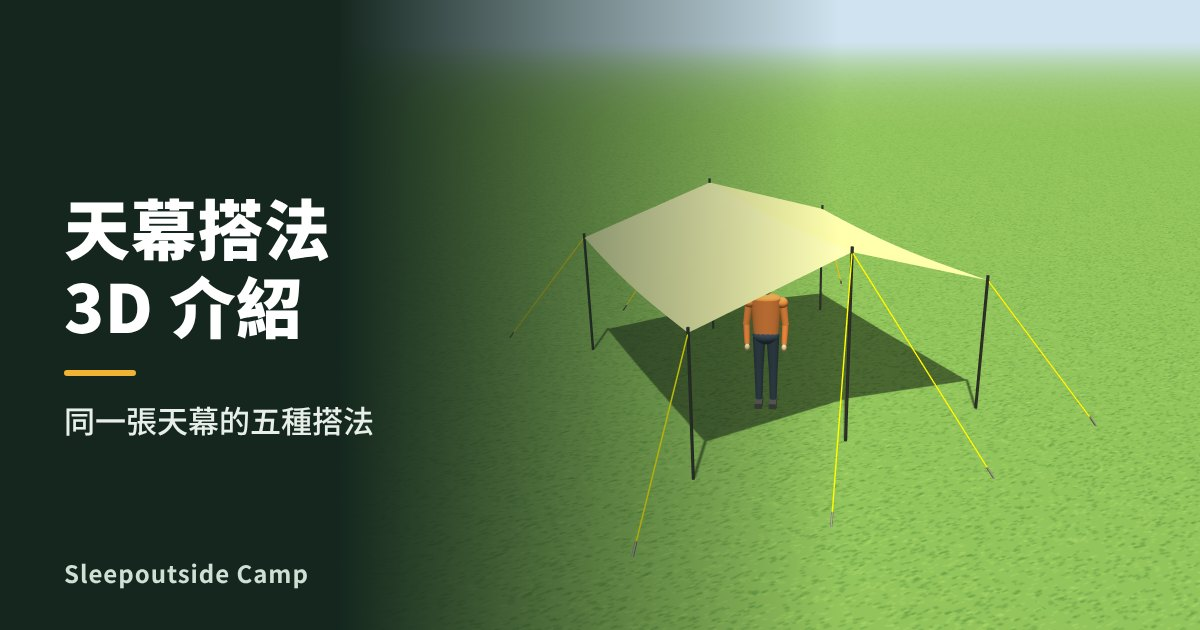
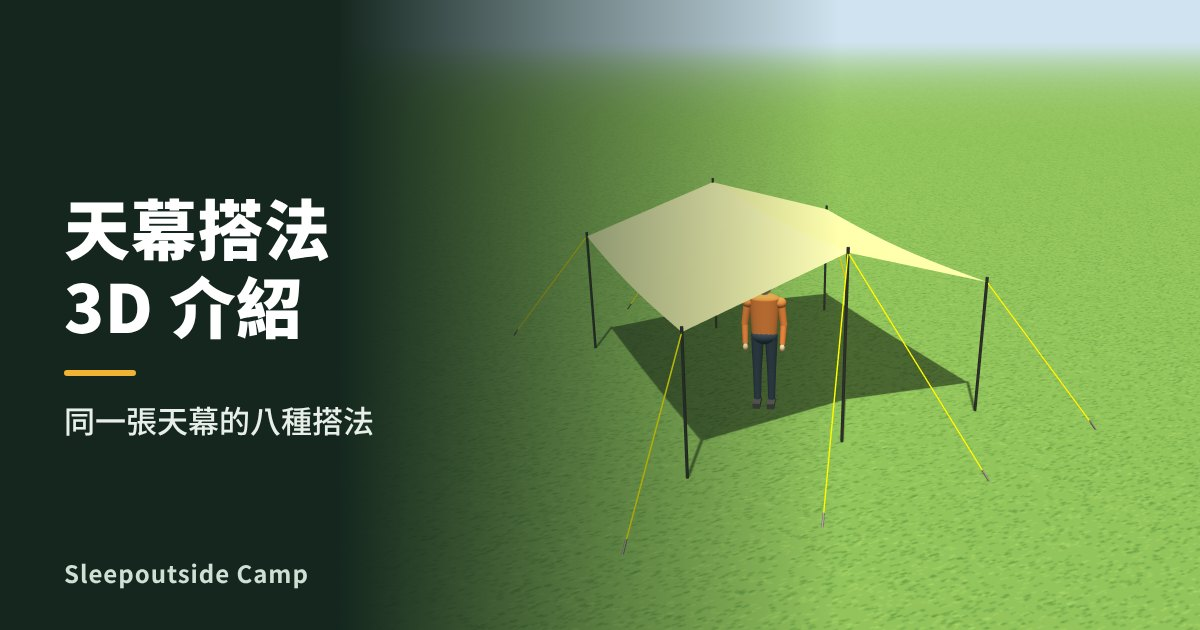
Tarp pitches: add rain drainage, car-side and butterfly tarp
Claude-Session: https://claude.ai/code/session_014sz8NWJGfTpPNJeVKTkoDY

diff --git a/tarps.html b/tarps.html
@@ -4,19 +4,19 @@
 <meta charset="utf-8">
 <meta name="viewport" content="width=device-width, initial-scale=1">
 <meta name="author" content="Sleepoutside Camp">
-<meta name="description" content="同一張方形天幕，換個搭法就是不同的遮蔽。標準屋脊、一側落地、單斜面、全落地 A 字、菱形，用 3D 看差別。">
+<meta name="description" content="同一張方形天幕，換個搭法就是不同的遮蔽。標準屋脊、一側落地、單斜面、全落地 A 字、菱形、雨天排水、車邊搭，再加蝶形天幕對照，用 3D 看差別。">
 <link rel="canonical" href="https://sleepoutside.github.io/tent-planner/tarps.html">
 <meta property="og:type" content="website">
 <meta property="og:site_name" content="Sleepoutside Camp">
 <meta property="og:locale" content="zh_TW">
-<meta property="og:title" content="天幕搭法 3D 介紹｜同一張天幕的五種搭法">
-<meta property="og:description" content="同一張方形天幕，換個搭法就是不同的遮蔽。標準屋脊、一側落地、單斜面、全落地 A 字、菱形，用 3D 看差別。">
+<meta property="og:title" content="天幕搭法 3D 介紹｜八種搭法比較">
+<meta property="og:description" content="同一張方形天幕，換個搭法就是不同的遮蔽。標準屋脊、一側落地、單斜面、全落地 A 字、菱形、雨天排水、車邊搭，再加蝶形天幕對照，用 3D 看差別。">
 <meta property="og:url" content="https://sleepoutside.github.io/tent-planner/tarps.html">
 <meta property="og:image" content="https://sleepoutside.github.io/tent-planner/og-tarps.jpg">
 <meta property="og:image:width" content="1200">
 <meta property="og:image:height" content="630">
 <meta name="twitter:card" content="summary_large_image">
-<title>天幕搭法 3D 介紹｜同一張天幕的五種搭法</title>
+<title>天幕搭法 3D 介紹｜八種搭法比較</title>
 <style>
   :root{--paper:#f4f0e6;--panel:#fbf9f3;--ink:#22302a;--muted:#66736b;--line:#d9d3c3;--accent:#2f6b4f;--accent-soft:#e2eee6;--warn:#b8472a;--warn-soft:#f8e4dc;color-scheme:light}
   *{box-sizing:border-box}
@@ -75,7 +75,7 @@
 <body>
 <header>
   <h1>天幕搭法 3D 介紹</h1>
-  <p>同一張 4 × 4 公尺的方形天幕，換個搭法就是不同的遮蔽。拖曳畫面可以轉著看。</p>
+  <p>同一張 4 × 4 公尺的方形天幕，換個搭法就是不同的遮蔽；最後附上蝶形天幕作對照。拖曳畫面可以轉著看。</p>
   <nav class="navcards" aria-label="其他頁面"><a href="index.html">搭設模擬<small>放不放得下</small></a><a href="types.html">帳型介紹<small>3D 與優缺點</small></a><a href="fire.html">焚火安全<small>距離與風向</small></a><a href="sleep.html">帳內睡鋪<small>睡得下幾人</small></a></nav>
 </header>
 <main>
@@ -157,7 +157,31 @@ var PITCHES=[
   need:['營柱 1 支','營繩 4 條','營釘 5 支'],r:[2,2,2,1,5],
   pros:['只要一支營柱，一個人幾分鐘就能搭好','裝備最少，適合輕裝或單人','造型俐落，拍照好看'],
   cons:['真正能遮到的面積很小，只夠一兩個人','越往後越矮，後半段只能放東西','兩側敞開，下雨時能躲的範圍有限'],
-  fit:'單人或兩人、短暫休息遮陽，或裝備想帶到最少的時候。',tip:'把低的那個角朝向風吹來的方向，風會順著布面滑過去。'}
+  fit:'單人或兩人、短暫休息遮陽，或裝備想帶到最少的時候。',tip:'把低的那個角朝向風吹來的方向，風會順著布面滑過去。'},
+ {id:'rain',name:'雨天排水',lead:'標準屋脊的變化：把一個角壓低，讓雨水集中從那裡流走。',
+  net:[[[-2,1.7,-1.91],[-2,2.3,0],[-2,1.7,1.91]],[[2,1.7,-1.91],[2,2.3,0],[2,.7,1.25]]],
+  poles:[[-2,0,2.3],[2,0,2.3],[-2,-1.91,1.7],[-2,1.91,1.7],[2,-1.91,1.7]],
+  ropes:[[-2,2.3,0,-3.4,-1],[-2,2.3,0,-3.4,1],[2,2.3,0,3.4,-1],[2,2.3,0,3.4,1],[-2,1.7,-1.91,-3,-2.9],[-2,1.7,1.91,-3,2.9],[2,1.7,-1.91,3,-2.9],[2,.7,1.25,2.6,1.9]],pegs:[],person:[-.6,.2],
+  need:['營柱 5 支','營繩 8 條','營釘 8 支'],r:[4,4,1,1,3],
+  pros:['雨水有固定的出口，不會在布面上積成水袋','從標準屋脊改過來只要動一個角，下雨前臨時調整也來得及','其他三個角維持高度，底下還是好活動'],
+  cons:['壓低的那個角下方不能站人，也不要放怕濕的東西','水會集中流到同一處，地面容易泥濘','四面一樣沒有遮擋，擋不了斜雨'],
+  fit:'已經搭好標準屋脊、看天氣快要下雨的時候。',tip:'壓低的角選在地勢低、遠離帳篷門口和走道的那一側；下面放個水桶還能接水。'},
+ {id:'car',name:'車邊搭',lead:'一邊固定在車頂，另一邊用兩支營柱撐開，車子就是一面牆。',
+  net:[[[-2,1.88,-2],[-2,1.76,2]],[[2,1.88,-2],[2,1.76,2]]],car:[0,-2.98],
+  poles:[[-2,2,1.76],[2,2,1.76]],
+  ropes:[[-2,1.76,2,-3.1,2.4],[-2,1.76,2,-2.4,3.1],[2,1.76,2,3.1,2.4],[2,1.76,2,2.4,3.1]],pegs:[],person:[.7,-.6],
+  need:['營柱 2 支','營繩 4 條','營釘 4 支'],r:[4,3,3,3,4],
+  pros:['只要兩支營柱，車子幫你擋掉一整面的風','拿東西不用淋雨，後車廂或側門一開就是倉庫','佔地小，適合車宿或只有停車格大小的營位'],
+  cons:['車子不能動，臨時要開車就得先拆','固定在車上的那一邊要用吸盤、車頂架綁帶或專用配件，要另外準備','車身會被布面和雨水摩擦，固定點要墊好避免刮傷','外側要比車頂低一點，雨水才不會流回車上'],
+  fit:'車宿、車邊帳，或營位小到放不下六支營柱的時候。',tip:'車門開關的範圍先確認，別讓營柱或營繩擋住；引擎不要怠速，排氣會積在天幕下。'},
+ {id:'hexa',name:'蝶形天幕（對照）',lead:'另一種天幕：六角形的布，兩支主柱撐起兩個尖端，四個角用營繩往下拉。',
+  net:[[[-2.2,2.4,0],[-2.2,2.4,0],[-2.2,2.4,0]],[[-.97,1.1,-1.72],[-.97,2.25,0],[-.97,1.1,1.72]],[[.97,1.1,-1.72],[.97,2.25,0],[.97,1.1,1.72]],[[2.2,2.4,0],[2.2,2.4,0],[2.2,2.4,0]]],
+  poles:[[-2.2,0,2.4],[2.2,0,2.4]],
+  ropes:[[-2.2,2.4,0,-3.6,-.9],[-2.2,2.4,0,-3.6,.9],[2.2,2.4,0,3.6,-.9],[2.2,2.4,0,3.6,.9],[-.97,1.1,-1.72,-1.5,-2.75],[-.97,1.1,1.72,-1.5,2.75],[.97,1.1,-1.72,1.5,-2.75],[.97,1.1,1.72,1.5,2.75]],pegs:[],person:[.2,.3],
+  need:['營柱 2 支','營繩 8 條','營釘 8 支'],r:[3,3,3,2,4],
+  pros:['只要兩支營柱，收納比方形天幕小','曲線邊緣把布面繃緊，不容易積水','兩側自然下垂，比標準屋脊多擋一點斜雨和風'],
+  cons:['同樣大小的布，能站著活動的範圍比方形小','搭法變化少，基本上就是這個樣子','營繩往外拉得遠，實際佔地比布面大很多'],
+  fit:'想要好搭、好收、好看，人數不多的時候。',tip:'把其中一支主柱換短或把一側的兩個角拉低，就能擋住那個方向的風和西曬。'}
 ];
 /* ---------- builders shared with the simulator (copied from index.html by tools/build.py) ---------- */
 function rnd(seed){var s=seed;return function(){s=(s*9301+49297)%233280;return s/233280}}
@@ -452,6 +476,69 @@ function buildPerson(){
   }
   personG.scale.setScalar(S.ph/170);
 }
+function car(type){
+  var c=CARS[type]||CARS.suv,g=new THREE.Group(),i;
+  var body=std(c.col,{roughness:.28,metalness:.45}),glass=std(0x141d23,{roughness:.1,metalness:.6}),dark=std(0x202325,{roughness:.75}),tyre=std(0x161616),alloy=std(0xc9cdd0,{metalness:.8,roughness:.3});
+  var hl=c.len/2,w=c.w,r=c.wr,ra=r+.06,xf=hl-c.fo,xr=-hl+c.ro,by=.22,cc=Math.sqrt(ra*ra-(r-by)*(r-by)),a0=Math.asin((by-r)/ra);
+  function ext(shape,depth,bt,bs,mat,z){
+    var geo=new THREE.ExtrudeGeometry(shape,{depth:depth,bevelEnabled:bt>0,bevelThickness:bt,bevelSize:bs,bevelSegments:3,curveSegments:16,steps:1});
+    geo.translate(0,0,-depth/2); var m=new THREE.Mesh(geo,mat); m.position.z=z||0; m.castShadow=true; g.add(m); return m;
+  }
+  function bx(sx,sy,sz,m,x,y,z){ var o=new THREE.Mesh(new THREE.BoxGeometry(sx,sy,sz),m); o.position.set(x,y,z); g.add(o); return o; }
+  function smooth(pts,n){ return new THREE.SplineCurve(pts.map(function(p){return new THREE.Vector2(p[0],p[1])})).getPoints(n).map(function(v){return [v.x,v.y]}); }
+  function poly(pts){ var s=new THREE.Shape(); s.moveTo(pts[0][0],pts[0][1]); for(var k=1;k<pts.length;k++) s.lineTo(pts[k][0],pts[k][1]); s.closePath(); return s; }
+  /* lower body: smooth shoulder line, wheel arches */
+  var top=smooth(c.top,48),s=new THREE.Shape(); s.moveTo(-hl+.12,by); s.lineTo(xr-cc,by); s.absarc(xr,r,ra,Math.PI-a0,a0,true); s.lineTo(xf-cc,by); s.absarc(xf,r,ra,Math.PI-a0,a0,true); s.lineTo(hl-.12,by);
+  for(i=top.length-1;i>=0;i--) s.lineTo(top[i][0],top[i][1]); s.closePath();
+  ext(s,w-.12,.06,.03,body);
+  /* glasshouse with a curved roofline */
+  var cab=smooth(c.cab,36),n=cab.length,gw=w-.3,cx=0,cy=0,roofY=0,baseY=c.cab[0][1];
+  cab.forEach(function(p){ cx+=p[0]/n; cy+=p[1]/n; roofY=Math.max(roofY,p[1]); });
+  ext(poly(cab),gw,.03,.012,glass);
+  var rf=cab.filter(function(p){ return p[1]>=roofY-.16; }),rp=rf.map(function(p){return [p[0],p[1]+.02]}).concat(rf.slice().reverse().map(function(p){return [p[0],p[1]-.05]}));
+  ext(poly(rp),w-.24,.03,.015,c.darkRoof?glass:body);
+  var fy=c.top[c.top.length-2][1]-.07,ry=c.top[2][1]-.14,led=std(0xffffff,{emissive:0xdfe8ff,emissiveIntensity:.9}),red=std(0xd0241c,{emissive:0x8a100c,emissiveIntensity:.8});
+  [1,-1].forEach(function(sg){
+    c.pil.forEach(function(px){ bx(.09,roofY-.07-baseY,.05,body,px,(roofY-.07+baseY)/2,sg*(gw/2+.035)); });
+    bx(.1,.09,.2,body,c.cab[c.cab.length-1][0]-.18,baseY+.1,sg*(w/2+.06));
+    if(c.rails) g.add(limb(P(rf[0][0]+.2,roofY+.07,sg*(w/2-.3)),P(rf[rf.length-1][0]-.2,roofY+.07,sg*(w/2-.3)),.016,.016,dark,6));
+    bx(.05,.045,.5,led,hl+.01,fy,sg*(w/2-.36)); bx(.05,.1,.26,glass,hl+.008,fy-.09,sg*(w/2-.3));
+    bx(.05,.06,.34,red,-hl-.01,ry,sg*(w/2-.24));
+    [xf,xr].forEach(function(wx){
+      var z=sg*(w/2-.11),t=new THREE.Mesh(new THREE.CylinderGeometry(r,r,.23,24),tyre); t.rotation.x=Math.PI/2; t.position.set(wx,r,z); t.castShadow=true; g.add(t);
+      var well=new THREE.Mesh(new THREE.CylinderGeometry(r*.74,r*.74,.235,20),dark); well.rotation.x=Math.PI/2; well.position.copy(t.position); g.add(well);
+      for(var k=0;k<5;k++){ var a=k/5*Math.PI*2,sp=bx(r*.66,.06,.02,alloy,wx+Math.cos(a)*r*.36,r+Math.sin(a)*r*.36,z+sg*.115); sp.rotation.z=a; }
+      var hub=new THREE.Mesh(new THREE.CylinderGeometry(r*.17,r*.17,.26,12),alloy); hub.rotation.x=Math.PI/2; hub.position.copy(t.position); g.add(hub);
+      var rim=new THREE.Mesh(new THREE.TorusGeometry(r*.72,.018,6,24),alloy); rim.position.set(wx,r,z+sg*.115); g.add(rim);
+    });
+  });
+  [xf,xr].forEach(function(wx){
+    bx(ra*2,ra*1.1,w-.52,dark,wx,r+ra*.4,0);
+    if(c.clad){ var cs=new THREE.Shape(); cs.absarc(wx,r,ra+.07,a0,Math.PI-a0,false); cs.absarc(wx,r,ra,Math.PI-a0,a0,true); cs.closePath(); ext(cs,w+.02,0,0,dark); }
+  });
+  if(c.clad) bx(xf-xr-ra*2,.12,w+.02,dark,(xf+xr)/2,by+.06,0);
+  bx(.14,.2,w-.16,dark,hl-.03,.36,0); bx(.14,.2,w-.16,dark,-hl+.03,.36,0);
+  bx(.04,.04,w*.8,red,-hl-.012,ry,0);
+  bx(.03,.11,.42,std(0xf4f4f0),hl+.05,.4,0); bx(.03,.11,.42,std(0xf4f4f0),-hl-.05,.4,0);
+  return g;
+}
+var CARS={
+  hatch:{name:'小型車',len:4.0,w:1.74,wr:.32,fo:.8,ro:.72,col:0x3f7f8c,
+    top:[[-2.0,.48],[-1.99,.8],[-1.9,.98],[-1.0,1.0],[.7,.97],[1.45,.9],[1.9,.76],[2.0,.5]],
+    cab:[[-1.9,.98],[-1.72,1.3],[-1.2,1.47],[-.3,1.52],[.3,1.42],[.95,.97]],pil:[-.55]},
+  sedan:{name:'轎車',len:4.7,w:1.84,wr:.34,fo:.92,ro:.95,col:0x5b6168,
+    top:[[-2.35,.5],[-2.34,.82],[-2.2,.98],[-1.2,1.0],[.9,.96],[1.7,.88],[2.25,.74],[2.35,.5]],
+    cab:[[-2.0,.99],[-1.3,1.3],[-.6,1.42],[.1,1.44],[.55,1.33],[1.2,.96]],pil:[-.2]},
+  suv:{name:'休旅車',len:4.6,w:1.87,wr:.38,fo:.9,ro:.88,col:0xeceeed,rails:true,clad:true,darkRoof:true,
+    top:[[-2.3,.55],[-2.29,.95],[-2.18,1.12],[-1.0,1.14],[.85,1.1],[1.6,1.04],[2.2,.9],[2.3,.58]],
+    cab:[[-2.18,1.12],[-1.95,1.48],[-1.3,1.66],[-.2,1.7],[.35,1.6],[1.05,1.1]],pil:[-.3,-1.35]},
+  van:{name:'MPV',len:4.8,w:1.88,wr:.35,fo:.85,ro:.9,col:0xcfd3d6,
+    top:[[-2.4,.55],[-2.39,1.0],[-2.3,1.15],[-1.0,1.16],[1.45,1.1],[2.0,.98],[2.34,.8],[2.4,.55]],
+    cab:[[-2.32,1.15],[-2.25,1.62],[-1.6,1.78],[.3,1.8],[1.0,1.6],[1.7,1.1]],pil:[.7,-.5,-1.5]},
+  pickup:{name:'皮卡',len:5.3,w:1.9,wr:.4,fo:.95,ro:1.15,col:0x3f4d44,clad:true,
+    top:[[-2.65,.62],[-2.64,1.05],[-2.58,1.2],[-.7,1.2],[1.0,1.18],[1.9,1.14],[2.55,1.02],[2.65,.62]],
+    cab:[[-.72,1.18],[-.62,1.62],[-.2,1.8],[.45,1.8],[.85,1.66],[1.35,1.16]],pil:[.15]}
+};
 
 var canvas=$('c'),renderer;
 try{ renderer=new THREE.WebGLRenderer({canvas:canvas,antialias:true}); }
@@ -476,9 +563,9 @@ function clearG(g){ while(g.children.length){ var o=g.children[0]; g.remove(o); 
 function V(a){ return P(a[0],a[1],a[2]); }
 function buildPitch(t){
   clearG(tarpG);
-  var rows=t.net.map(function(r){ return r.map(V); }),n=rows[0].length-1;
+  var rows=t.net.map(function(r){ return r.map(V); }),n=rows[0].length-1,nr=rows.length-1;
   function along(r,v){ var f=Math.min(n-1e-6,v*n),i=Math.floor(f); return r[i].clone().lerp(r[i+1],f-i); }
-  var cloth=gridMesh(function(u,v){ var p=along(rows[0],v).lerp(along(rows[1],v),u); p.y-=.07*Math.sin(Math.PI*u)*Math.min(1,p.y/.6); p.y=Math.max(.012,p.y); return p; },20,n*12,
+  var cloth=gridMesh(function(u,v){ var fu=Math.min(nr-1e-6,u*nr),iu=Math.floor(fu),p=along(rows[iu],v).lerp(along(rows[iu+1],v),fu-iu); p.y-=.07*Math.sin(Math.PI*u)*Math.min(1,p.y/.6); p.y=Math.max(.012,p.y); return p; },nr*18,n*12,
     new THREE.MeshStandardMaterial({color:0xd9b77c,roughness:.9,side:THREE.DoubleSide}));
   cloth.castShadow=true; cloth.receiveShadow=true; tarpG.add(cloth);
   var pm=std(0x50544f,{metalness:.5,roughness:.45}),rm=new THREE.MeshStandardMaterial({color:0xffb300,emissive:0x7a5200,roughness:.6}),gm=std(0xd8d8d2,{metalness:.6,roughness:.4});
@@ -486,6 +573,7 @@ function buildPitch(t){
   function peg(x,z,dir){ tarpG.add(limb(P(x,.11,z).addScaledVector(dir,-.06),P(x,-.02,z).addScaledVector(dir,.04),.012,.012,gm,6)); }
   t.ropes.forEach(function(r){ var a=P(r[0],r[1],r[2]),b=P(r[3],.03,r[4]); tarpG.add(limb(a,b,.008,.008,rm,6)); peg(r[3],r[4],b.clone().sub(a).setY(0).normalize()); });
   t.pegs.forEach(function(p){ peg(p[0],p[1],P(p[0],0,p[1]).normalize()); });
+  if(t.car){ var c=car('suv'); c.position.set(t.car[0],0,t.car[1]); tarpG.add(c); }
   buildPerson(); personG.position.set(t.person[0],0,t.person[1]); personG.rotation.y=Math.atan2(-t.person[0],-t.person[1])+Math.PI;
 }
 var cur=null;

diff --git a/tools/tpl/tarps.html b/tools/tpl/tarps.html
@@ -4,19 +4,19 @@
 <meta charset="utf-8">
 <meta name="viewport" content="width=device-width, initial-scale=1">
 <meta name="author" content="Sleepoutside Camp">
-<meta name="description" content="同一張方形天幕，換個搭法就是不同的遮蔽。標準屋脊、一側落地、單斜面、全落地 A 字、菱形，用 3D 看差別。">
+<meta name="description" content="同一張方形天幕，換個搭法就是不同的遮蔽。標準屋脊、一側落地、單斜面、全落地 A 字、菱形、雨天排水、車邊搭，再加蝶形天幕對照，用 3D 看差別。">
 <link rel="canonical" href="https://sleepoutside.github.io/tent-planner/tarps.html">
 <meta property="og:type" content="website">
 <meta property="og:site_name" content="Sleepoutside Camp">
 <meta property="og:locale" content="zh_TW">
-<meta property="og:title" content="天幕搭法 3D 介紹｜同一張天幕的五種搭法">
-<meta property="og:description" content="同一張方形天幕，換個搭法就是不同的遮蔽。標準屋脊、一側落地、單斜面、全落地 A 字、菱形，用 3D 看差別。">
+<meta property="og:title" content="天幕搭法 3D 介紹｜八種搭法比較">
+<meta property="og:description" content="同一張方形天幕，換個搭法就是不同的遮蔽。標準屋脊、一側落地、單斜面、全落地 A 字、菱形、雨天排水、車邊搭，再加蝶形天幕對照，用 3D 看差別。">
 <meta property="og:url" content="https://sleepoutside.github.io/tent-planner/tarps.html">
 <meta property="og:image" content="https://sleepoutside.github.io/tent-planner/og-tarps.jpg">
 <meta property="og:image:width" content="1200">
 <meta property="og:image:height" content="630">
 <meta name="twitter:card" content="summary_large_image">
-<title>天幕搭法 3D 介紹｜同一張天幕的五種搭法</title>
+<title>天幕搭法 3D 介紹｜八種搭法比較</title>
 <style>
   :root{--paper:#f4f0e6;--panel:#fbf9f3;--ink:#22302a;--muted:#66736b;--line:#d9d3c3;--accent:#2f6b4f;--accent-soft:#e2eee6;--warn:#b8472a;--warn-soft:#f8e4dc;color-scheme:light}
   *{box-sizing:border-box}
@@ -70,7 +70,7 @@
 <body>
 <header>
   <h1>天幕搭法 3D 介紹</h1>
-  <p>同一張 4 × 4 公尺的方形天幕，換個搭法就是不同的遮蔽。拖曳畫面可以轉著看。</p>
+  <p>同一張 4 × 4 公尺的方形天幕，換個搭法就是不同的遮蔽；最後附上蝶形天幕作對照。拖曳畫面可以轉著看。</p>
   /*NAV*/
 </header>
 <main>
@@ -152,7 +152,31 @@ var PITCHES=[
   need:['營柱 1 支','營繩 4 條','營釘 5 支'],r:[2,2,2,1,5],
   pros:['只要一支營柱，一個人幾分鐘就能搭好','裝備最少，適合輕裝或單人','造型俐落，拍照好看'],
   cons:['真正能遮到的面積很小，只夠一兩個人','越往後越矮，後半段只能放東西','兩側敞開，下雨時能躲的範圍有限'],
-  fit:'單人或兩人、短暫休息遮陽，或裝備想帶到最少的時候。',tip:'把低的那個角朝向風吹來的方向，風會順著布面滑過去。'}
+  fit:'單人或兩人、短暫休息遮陽，或裝備想帶到最少的時候。',tip:'把低的那個角朝向風吹來的方向，風會順著布面滑過去。'},
+ {id:'rain',name:'雨天排水',lead:'標準屋脊的變化：把一個角壓低，讓雨水集中從那裡流走。',
+  net:[[[-2,1.7,-1.91],[-2,2.3,0],[-2,1.7,1.91]],[[2,1.7,-1.91],[2,2.3,0],[2,.7,1.25]]],
+  poles:[[-2,0,2.3],[2,0,2.3],[-2,-1.91,1.7],[-2,1.91,1.7],[2,-1.91,1.7]],
+  ropes:[[-2,2.3,0,-3.4,-1],[-2,2.3,0,-3.4,1],[2,2.3,0,3.4,-1],[2,2.3,0,3.4,1],[-2,1.7,-1.91,-3,-2.9],[-2,1.7,1.91,-3,2.9],[2,1.7,-1.91,3,-2.9],[2,.7,1.25,2.6,1.9]],pegs:[],person:[-.6,.2],
+  need:['營柱 5 支','營繩 8 條','營釘 8 支'],r:[4,4,1,1,3],
+  pros:['雨水有固定的出口，不會在布面上積成水袋','從標準屋脊改過來只要動一個角，下雨前臨時調整也來得及','其他三個角維持高度，底下還是好活動'],
+  cons:['壓低的那個角下方不能站人，也不要放怕濕的東西','水會集中流到同一處，地面容易泥濘','四面一樣沒有遮擋，擋不了斜雨'],
+  fit:'已經搭好標準屋脊、看天氣快要下雨的時候。',tip:'壓低的角選在地勢低、遠離帳篷門口和走道的那一側；下面放個水桶還能接水。'},
+ {id:'car',name:'車邊搭',lead:'一邊固定在車頂，另一邊用兩支營柱撐開，車子就是一面牆。',
+  net:[[[-2,1.88,-2],[-2,1.76,2]],[[2,1.88,-2],[2,1.76,2]]],car:[0,-2.98],
+  poles:[[-2,2,1.76],[2,2,1.76]],
+  ropes:[[-2,1.76,2,-3.1,2.4],[-2,1.76,2,-2.4,3.1],[2,1.76,2,3.1,2.4],[2,1.76,2,2.4,3.1]],pegs:[],person:[.7,-.6],
+  need:['營柱 2 支','營繩 4 條','營釘 4 支'],r:[4,3,3,3,4],
+  pros:['只要兩支營柱，車子幫你擋掉一整面的風','拿東西不用淋雨，後車廂或側門一開就是倉庫','佔地小，適合車宿或只有停車格大小的營位'],
+  cons:['車子不能動，臨時要開車就得先拆','固定在車上的那一邊要用吸盤、車頂架綁帶或專用配件，要另外準備','車身會被布面和雨水摩擦，固定點要墊好避免刮傷','外側要比車頂低一點，雨水才不會流回車上'],
+  fit:'車宿、車邊帳，或營位小到放不下六支營柱的時候。',tip:'車門開關的範圍先確認，別讓營柱或營繩擋住；引擎不要怠速，排氣會積在天幕下。'},
+ {id:'hexa',name:'蝶形天幕（對照）',lead:'另一種天幕：六角形的布，兩支主柱撐起兩個尖端，四個角用營繩往下拉。',
+  net:[[[-2.2,2.4,0],[-2.2,2.4,0],[-2.2,2.4,0]],[[-.97,1.1,-1.72],[-.97,2.25,0],[-.97,1.1,1.72]],[[.97,1.1,-1.72],[.97,2.25,0],[.97,1.1,1.72]],[[2.2,2.4,0],[2.2,2.4,0],[2.2,2.4,0]]],
+  poles:[[-2.2,0,2.4],[2.2,0,2.4]],
+  ropes:[[-2.2,2.4,0,-3.6,-.9],[-2.2,2.4,0,-3.6,.9],[2.2,2.4,0,3.6,-.9],[2.2,2.4,0,3.6,.9],[-.97,1.1,-1.72,-1.5,-2.75],[-.97,1.1,1.72,-1.5,2.75],[.97,1.1,-1.72,1.5,-2.75],[.97,1.1,1.72,1.5,2.75]],pegs:[],person:[.2,.3],
+  need:['營柱 2 支','營繩 8 條','營釘 8 支'],r:[3,3,3,2,4],
+  pros:['只要兩支營柱，收納比方形天幕小','曲線邊緣把布面繃緊，不容易積水','兩側自然下垂，比標準屋脊多擋一點斜雨和風'],
+  cons:['同樣大小的布，能站著活動的範圍比方形小','搭法變化少，基本上就是這個樣子','營繩往外拉得遠，實際佔地比布面大很多'],
+  fit:'想要好搭、好收、好看，人數不多的時候。',tip:'把其中一支主柱換短或把一側的兩個角拉低，就能擋住那個方向的風和西曬。'}
 ];
 /*BUILDERS*/
 
@@ -179,9 +203,9 @@ function clearG(g){ while(g.children.length){ var o=g.children[0]; g.remove(o); 
 function V(a){ return P(a[0],a[1],a[2]); }
 function buildPitch(t){
   clearG(tarpG);
-  var rows=t.net.map(function(r){ return r.map(V); }),n=rows[0].length-1;
+  var rows=t.net.map(function(r){ return r.map(V); }),n=rows[0].length-1,nr=rows.length-1;
   function along(r,v){ var f=Math.min(n-1e-6,v*n),i=Math.floor(f); return r[i].clone().lerp(r[i+1],f-i); }
-  var cloth=gridMesh(function(u,v){ var p=along(rows[0],v).lerp(along(rows[1],v),u); p.y-=.07*Math.sin(Math.PI*u)*Math.min(1,p.y/.6); p.y=Math.max(.012,p.y); return p; },20,n*12,
+  var cloth=gridMesh(function(u,v){ var fu=Math.min(nr-1e-6,u*nr),iu=Math.floor(fu),p=along(rows[iu],v).lerp(along(rows[iu+1],v),fu-iu); p.y-=.07*Math.sin(Math.PI*u)*Math.min(1,p.y/.6); p.y=Math.max(.012,p.y); return p; },nr*18,n*12,
     new THREE.MeshStandardMaterial({color:0xd9b77c,roughness:.9,side:THREE.DoubleSide}));
   cloth.castShadow=true; cloth.receiveShadow=true; tarpG.add(cloth);
   var pm=std(0x50544f,{metalness:.5,roughness:.45}),rm=new THREE.MeshStandardMaterial({color:0xffb300,emissive:0x7a5200,roughness:.6}),gm=std(0xd8d8d2,{metalness:.6,roughness:.4});
@@ -189,6 +213,7 @@ function buildPitch(t){
   function peg(x,z,dir){ tarpG.add(limb(P(x,.11,z).addScaledVector(dir,-.06),P(x,-.02,z).addScaledVector(dir,.04),.012,.012,gm,6)); }
   t.ropes.forEach(function(r){ var a=P(r[0],r[1],r[2]),b=P(r[3],.03,r[4]); tarpG.add(limb(a,b,.008,.008,rm,6)); peg(r[3],r[4],b.clone().sub(a).setY(0).normalize()); });
   t.pegs.forEach(function(p){ peg(p[0],p[1],P(p[0],0,p[1]).normalize()); });
+  if(t.car){ var c=car('suv'); c.position.set(t.car[0],0,t.car[1]); tarpG.add(c); }
   buildPerson(); personG.position.set(t.person[0],0,t.person[1]); personG.rotation.y=Math.atan2(-t.person[0],-t.person[1])+Math.PI;
 }
 var cur=null;

diff --git a/index.html b/index.html
@@ -175,7 +175,7 @@
 
   <aside class="panel left" aria-label="帳篷">
     <button type="button" class="sheet-x">收合 ▾</button>
-    <nav class="navcards" aria-label="其他頁面"><a href="types.html">帳型介紹<small>3D 與優缺點</small></a><a href="tarps.html">天幕搭法<small>五種搭法</small></a><a href="fire.html">焚火安全<small>距離與風向</small></a><a href="sleep.html">帳內睡鋪<small>睡得下幾人</small></a></nav>
+    <nav class="navcards" aria-label="其他頁面"><a href="types.html">帳型介紹<small>3D 與優缺點</small></a><a href="tarps.html">天幕搭法<small>八種搭法</small></a><a href="fire.html">焚火安全<small>距離與風向</small></a><a href="sleep.html">帳內睡鋪<small>睡得下幾人</small></a></nav>
     <div class="single-only">
     <h1>帳篷</h1>
     <p class="sub">選一頂帳篷，尺寸為原廠公布的搭設外尺寸。</p>

diff --git a/sleep.html b/sleep.html
@@ -78,7 +78,7 @@
 <header>
   <h1>帳內睡鋪模擬</h1>
   <p>選一頂帳，把床墊一張張放進內帳，拖一拖、轉一轉，看看到底睡得下幾個人。</p>
-  <nav class="navcards" aria-label="其他頁面"><a href="index.html">搭設模擬<small>放不放得下</small></a><a href="types.html">帳型介紹<small>3D 與優缺點</small></a><a href="tarps.html">天幕搭法<small>五種搭法</small></a><a href="fire.html">焚火安全<small>距離與風向</small></a></nav>
+  <nav class="navcards" aria-label="其他頁面"><a href="index.html">搭設模擬<small>放不放得下</small></a><a href="types.html">帳型介紹<small>3D 與優缺點</small></a><a href="tarps.html">天幕搭法<small>八種搭法</small></a><a href="fire.html">焚火安全<small>距離與風向</small></a></nav>
 </header>
 <main>
   <section class="view" aria-label="3D 模擬">

diff --git a/fire.html b/fire.html
@@ -99,7 +99,7 @@
 <header>
   <h1>焚火安全模擬</h1>
   <p>換焚火台、換燃料、調風向，再把帳篷和天幕拖來拖去，看看怎麼擺才安心。</p>
-  <nav class="navcards" aria-label="其他頁面"><a href="index.html">搭設模擬<small>放不放得下</small></a><a href="types.html">帳型介紹<small>3D 與優缺點</small></a><a href="tarps.html">天幕搭法<small>五種搭法</small></a><a href="sleep.html">帳內睡鋪<small>睡得下幾人</small></a></nav>
+  <nav class="navcards" aria-label="其他頁面"><a href="index.html">搭設模擬<small>放不放得下</small></a><a href="types.html">帳型介紹<small>3D 與優缺點</small></a><a href="tarps.html">天幕搭法<small>八種搭法</small></a><a href="sleep.html">帳內睡鋪<small>睡得下幾人</small></a></nav>
 </header>
 <main>
   <section class="view" aria-label="3D 模擬">

diff --git a/types.html b/types.html
@@ -85,7 +85,7 @@
 <header>
   <h1>帳篷型式 3D 介紹</h1>
   <p>十一種常見帳型和兩種天幕的概念造型與優缺點，拖曳畫面可以轉著看。</p>
-  <nav class="navcards" aria-label="其他頁面"><a href="index.html">搭設模擬<small>放不放得下</small></a><a href="tarps.html">天幕搭法<small>五種搭法</small></a><a href="fire.html">焚火安全<small>距離與風向</small></a><a href="sleep.html">帳內睡鋪<small>睡得下幾人</small></a></nav>
+  <nav class="navcards" aria-label="其他頁面"><a href="index.html">搭設模擬<small>放不放得下</small></a><a href="tarps.html">天幕搭法<small>八種搭法</small></a><a href="fire.html">焚火安全<small>距離與風向</small></a><a href="sleep.html">帳內睡鋪<small>睡得下幾人</small></a></nav>
 </header>
 <main>
   <section class="view" aria-label="3D 展示">

diff --git a/tools/build.py b/tools/build.py
@@ -37,7 +37,7 @@ NAVCSS = '''  .navcards{display:grid;grid-template-columns:repeat(4,minmax(0,1fr
   .navcards a:hover{background:var(--accent);border-color:var(--accent);color:#fff}
   .navcards a:hover small{color:#e2eee6}
   @media (max-width: 880px){ .navcards{flex:1 1 100%;margin-top:4px;gap:6px} .navcards a{font-size:13px} .navcards a small{font-size:10px} }'''
-CARDS = [('index', '搭設模擬', '放不放得下'), ('types', '帳型介紹', '3D 與優缺點'), ('tarps', '天幕搭法', '五種搭法'),
+CARDS = [('index', '搭設模擬', '放不放得下'), ('types', '帳型介紹', '3D 與優缺點'), ('tarps', '天幕搭法', '八種搭法'),
          ('fire', '焚火安全', '距離與風向'), ('sleep', '帳內睡鋪', '睡得下幾人')]
 def nav(me):
     """Navigation cards to every page except `me`. index.html keeps its own hand-written copy."""
@@ -69,5 +69,5 @@ page('sleep', t.replace('/*DATA*/', '/* tent data copied from index.html */\n' +
 
 # tarps.html
 t = rd(TPL, 'tarps.html'); assert t.count('/*BUILDERS*/') == 1
-page('tarps', t.replace('/*BUILDERS*/', NOTE + funcs(BASE + ['buildPerson'])))
+page('tarps', t.replace('/*BUILDERS*/', NOTE + funcs(BASE + ['buildPerson', 'car']) + '\n' + block('var CARS=') + ';'))
 print('generated types.html, fire.html, sleep.html, tarps.html')

diff --git a/tools/make_og.py b/tools/make_og.py
@@ -13,7 +13,7 @@ CHROME = os.environ.get('CHROME', '/usr/bin/google-chrome')
 ARGS = ['--no-sandbox', '--use-gl=swiftshader', '--enable-unsafe-swiftshader', '--ignore-gpu-blocklist']
 PAGES = {'index': ('帳篷 × 營位', '3D 搭設模擬', '選帳、選營位，放不放得下一眼就知道'),
          'types': ('帳篷型式', '3D 介紹與優缺點', '11 種帳型加 2 種天幕的優缺點'),
-         'tarps': ('天幕搭法', '3D 介紹', '同一張天幕的五種搭法'),
+         'tarps': ('天幕搭法', '3D 介紹', '同一張天幕的八種搭法'),
          'fire': ('焚火安全模擬', '', '焚火台、燃料、風向與安全距離'),
          'sleep': ('帳內睡鋪模擬', '', '這頂帳到底睡得下幾個人')}
 WIDE = '.stage > *:not(canvas){display:none!important} .stage{height:820px!important}'

diff --git a/HANDOFF.md b/HANDOFF.md
@@ -26,7 +26,7 @@
 |---|---|
 | `index.html` | 搭設模擬（主頁，約 2,000 行）。手寫，直接編輯 |
 | `types.html` | 帳型 3D 介紹與優缺點（11 種帳型＋2 種天幕）。**產生檔** |
-| `tarps.html` | 天幕搭法 3D 介紹（目前 5 種）。**產生檔** |
+| `tarps.html` | 天幕搭法 3D 介紹（8 種）。**產生檔** |
 | `fire.html` | 焚火安全模擬。**產生檔** |
 | `sleep.html` | 帳內睡鋪模擬。**產生檔** |
 | `og-*.jpg` | 各頁的分享預覽圖（1200×630） |
@@ -92,7 +92,7 @@ git add -A && git commit -m "..." && git push origin main && git push origin mai
 各頁共用同一套寫法：自己的場景與鏡頭，加上一組「假的」全域變數（`S`、`WX`、`siteY`、`isArea()`、`placeTent()` 等）讓複製過來的 `buildTent1()` 能運作。若 `buildTent1()` 之後用到新的全域變數，每個範本都要補上對應的假變數，否則該頁會壞（`tools/smoke.py` 會抓到）。
 
 - **types.html**：`TYPES` 資料含 11 種帳型與 2 種天幕的尺寸、六項評分、優缺點。車頂帳只在這頁展示，不進搭設模擬。按鈕連到 `index.html#type-<id>`；天幕連到 `index.html#tarp-hexa`／`#tarp-rect`。
-- **tarps.html**：`PITCHES` 每筆是一種搭法，用 `net`（布面控制點，公尺）、`poles`、`ropes`、`pegs` 描述，`buildPitch()` 依此畫出布面、營柱、營繩。**新增搭法只要在 `PITCHES` 加一筆資料**，不用改造型程式。已規劃但還沒做的：雨天排水、車邊搭、蝶形天幕。這頁目前沒有「帶進搭設模擬」的按鈕。
+- **tarps.html**：`PITCHES` 每筆是一種搭法，用 `net`（布面控制點，公尺）、`poles`、`ropes`、`pegs` 描述，`buildPitch()` 依此畫出布面、營柱、營繩。**新增搭法只要在 `PITCHES` 加一筆資料**，不用改造型程式。`net` 可以有兩排以上（蝶形天幕用四排，兩端各一排重合的點當尖端）；`car:[x,z]` 會放一台車。這頁目前沒有「帶進搭設模擬」的按鈕。
 - **fire.html**：六種焚火台、五種燃料、風向風力；判斷邏輯在 `judge()`。
 - **sleep.html**：內帳範圍由 `sleepArea()`（複製自 `index.html`）決定；床墊可混搭、拖曳、轉向，`autoArrange()` 自動排列。
 

diff --git a/README.md b/README.md
@@ -25,7 +25,7 @@
 
 設計/Sleepoutside Camp　*非營利使用
 
-另有「天幕搭法 3D 介紹」頁（tarps.html）：同一張 4 × 4 m 方形天幕的五種搭法（標準屋脊、一側落地、單斜面、全落地 A 字、菱形），含所需營柱營繩、五項評分與優缺點。
+另有「天幕搭法 3D 介紹」頁（tarps.html）：4 × 4 m 方形天幕的七種搭法（標準屋脊、一側落地、單斜面、全落地 A 字、菱形、雨天排水、車邊搭）加蝶形天幕對照，含所需營柱營繩、五項評分與優缺點。
 
 ## 開發
 
